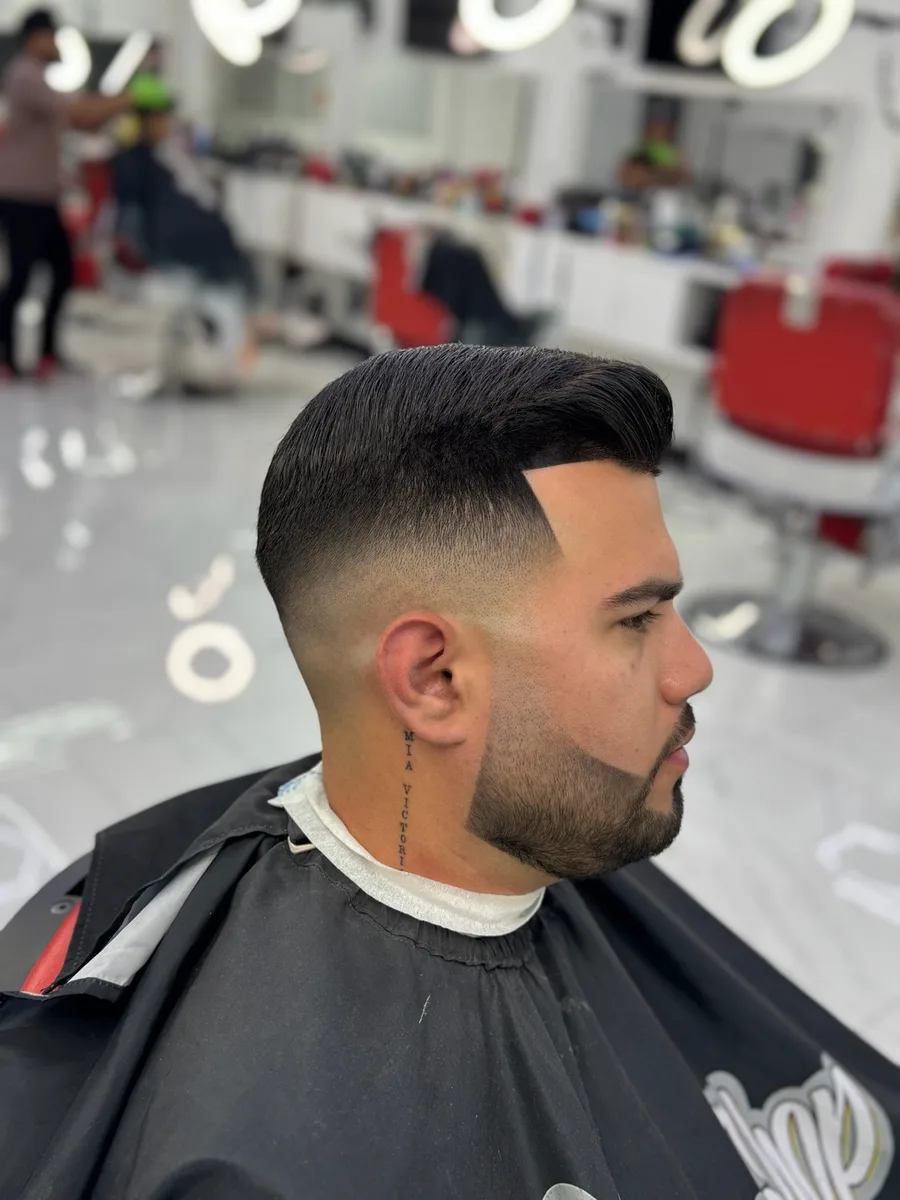
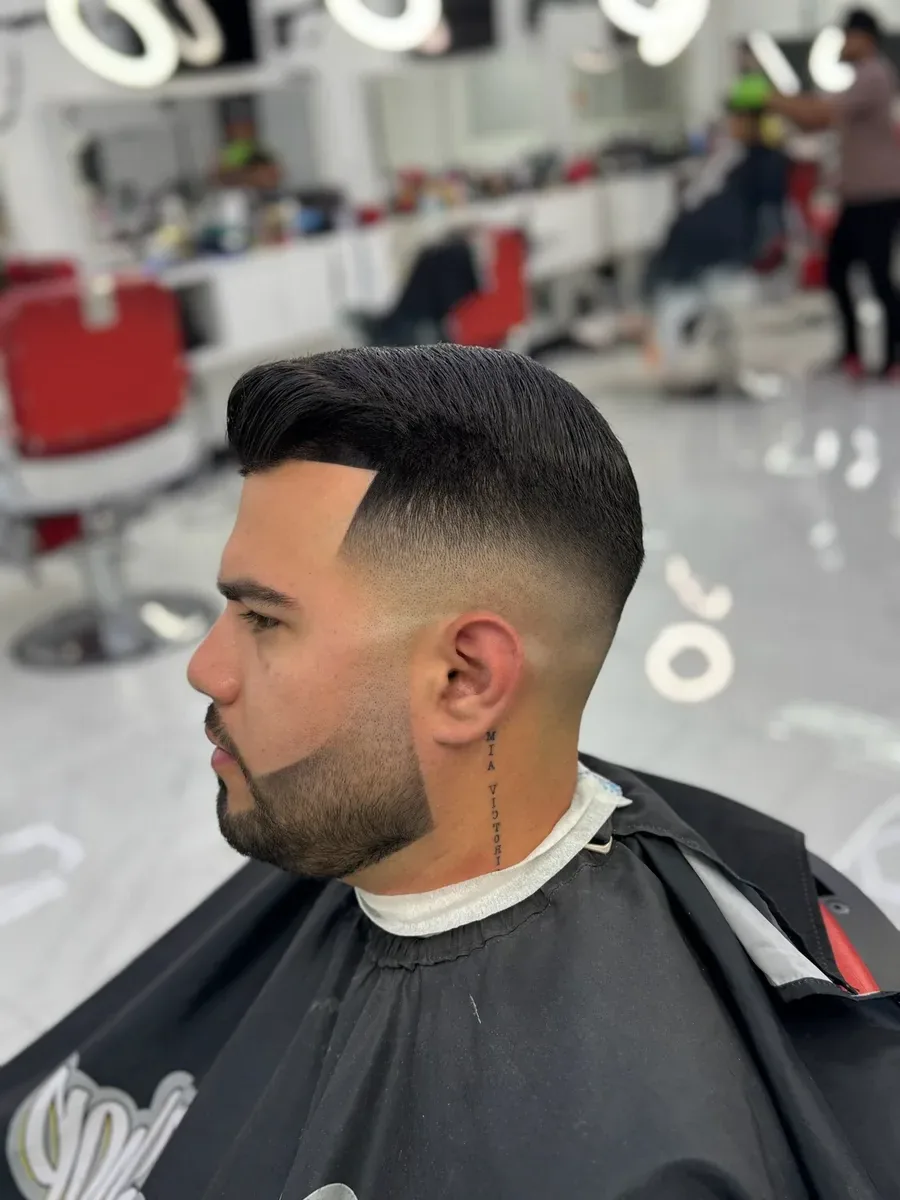
Cushion fix + beard flip + content update (owner-confirmed combined preview 1a18f306)
- Gallery cushion: scroll-padding-inline:16px on the three swipe-row rules (.cards--swipe, .gallery, .post-cards--swipe) so mandatory scroll-snap no longer eats the start padding — first card now rests aligned to the 16px page gutter on every swipe row.
- Beard & Shave photo flipped horizontally (asset-level, all 6 served variants: tile + gallery grid + lightbox -lg, webp+jpg) so the subject faces left like the Cuts photo, consistently in tile, gallery and lightbox.
- Content: Item 10 review-quote swaps with owner-approved verbatim picks (Shop 1: Raul Wallace, Asdrubal Madueño Uzcategui, Jonathan Cantillo; Shop 2: Franche John, Karina Rodriguez, Y J; Services featured: Leyan Martinez) and photo placements — real owner photos replace stock heroes on blog posts 1, 2, 4 (screenshot-cropped), 14, 18; owner's braids photo on post 3; Hot Towel Shave gallery slot filled; kids photo added to the Services gallery (13 items).

diff --git a/src/data/reviews.ts b/src/data/reviews.ts
@@ -1,8 +1,10 @@
 // Structured content — mirrors the Sanity `review` schema (sanity/schemas/review.ts).
-// Quotes are verbatim Google reviews from the content pack — never edited.
-// Shop 2 quotes were written bilingually / in Spanish originally and are kept
-// exactly as written in BOTH locales (per content pack). Shop 1 quotes have a
-// recorded Spanish translation for the /es/ pages.
+// Quotes are verbatim Google reviews — never edited.
+// 2026-11-17 refresh (Item 10, owner-approved picks from the verbatim GBP
+// pull in files/REVIEW-POOL-2026-11-17.md): every quote is kept EXACTLY as
+// written in BOTH locales — no translations. The Shop 1 replacements are
+// Spanish originals and ship as written on the EN and ES pages alike, the
+// same treatment Shop 2 quotes have always had here.
 
 import type { LocalizedString } from './locations';
 import { USE_SANITY, fetchSanity } from '../lib/sanity';
@@ -15,60 +17,60 @@ export interface Review {
 }
 
 const localReviews: Review[] = [
-  // ——— New Barbershop 1 ———
+  // ——— New Barbershop 1 (Spanish originals, kept as written in both locales) ———
   {
-    _id: 'rev-s1-carlos',
+    _id: 'rev-s1-raul',
     location: 'shop1',
-    author: 'Carlos López',
+    author: 'Raul Wallace',
     text: {
-      en: 'Quality and professionalism service with Kenya',
-      es: 'Servicio de calidad y profesionalismo con Kenya',
+      en: 'Lo mejores barberos del planeta están en esta barbería muy humiles y demasiado talentosos',
+      es: 'Lo mejores barberos del planeta están en esta barbería muy humiles y demasiado talentosos',
     },
   },
   {
-    _id: 'rev-s1-sophia',
+    _id: 'rev-s1-asdrubal',
     location: 'shop1',
-    author: 'Sophia Rodriguez',
+    author: 'Asdrubal Madueño Uzcategui',
     text: {
-      en: 'Excellent service with keny barber',
-      es: 'Excelente servicio con el barbero Keny',
+      en: 'Muy buena atención y excelente servicio',
+      es: 'Muy buena atención y excelente servicio',
     },
   },
   {
-    _id: 'rev-s1-zxyuak',
+    _id: 'rev-s1-jonathan',
     location: 'shop1',
-    author: 'zxyuak ?¿',
+    author: 'Jonathan Cantillo',
     text: {
-      en: 'Excellent barbershop and Ale king service',
-      es: 'Excelente barbería y un servicio de rey con Ale',
+      en: 'Excelente trabajo de los barberos',
+      es: 'Excelente trabajo de los barberos',
     },
   },
   // ——— New Barbershop 2 (kept as written in both locales) ———
   {
-    _id: 'rev-s2-juan',
+    _id: 'rev-s2-franche',
     location: 'shop2',
-    author: 'juan velazquez',
+    author: 'Franche John',
     text: {
-      en: 'Me encanta esta barbería! Todo el personal siempre es muy amable, acogedor y profesional. Se nota que se enorgullecen de su trabajo, y los cortes siempre quedan limpios, modernos y con mucho estilo. Charlie es mi barbero, ¡ese es mi pana! Es súper talentoso, presta mucha atención a los detalles y siempre se asegura de que salga de ahí luciendo fresh. Se nota que realmente sabe lo que hace. Definitivamente una de las mejores barberias de la ciudad. Excelente ambiente, excelente gente y excelente servicio. La recomiendo al 100%!',
-      es: 'Me encanta esta barbería! Todo el personal siempre es muy amable, acogedor y profesional. Se nota que se enorgullecen de su trabajo, y los cortes siempre quedan limpios, modernos y con mucho estilo. Charlie es mi barbero, ¡ese es mi pana! Es súper talentoso, presta mucha atención a los detalles y siempre se asegura de que salga de ahí luciendo fresh. Se nota que realmente sabe lo que hace. Definitivamente una de las mejores barberias de la ciudad. Excelente ambiente, excelente gente y excelente servicio. La recomiendo al 100%!',
+      en: 'Great service !! Precise and steady with the clippers! Highly recommended!',
+      es: 'Great service !! Precise and steady with the clippers! Highly recommended!',
     },
   },
   {
-    _id: 'rev-s2-jessica',
+    _id: 'rev-s2-karina',
     location: 'shop2',
-    author: 'JESSICA MERCADO',
+    author: 'Karina Rodriguez',
     text: {
-      en: 'Great Service, Clean Environment, Great Prices. Best Nail Technician. Highly Recommended. Tremendo Servicio, Ambiente Limpio, Buenos Precios. La Mejor Tecnica de Úñas. Altamente Recomendado.',
-      es: 'Great Service, Clean Environment, Great Prices. Best Nail Technician. Highly Recommended. Tremendo Servicio, Ambiente Limpio, Buenos Precios. La Mejor Tecnica de Úñas. Altamente Recomendado.',
+      en: 'The best barbershop in town.... Everything is clean and the barbers have the best customer service and care for you.',
+      es: 'The best barbershop in town.... Everything is clean and the barbers have the best customer service and care for you.',
     },
   },
   {
-    _id: 'rev-s2-jay',
+    _id: 'rev-s2-yj',
     location: 'shop2',
-    author: 'Jay Escargo',
+    author: 'Y J',
     text: {
-      en: 'These guys did an excellent job!! They helped me out immensely!! Charlie and Frankie were amazing, friendly, and very customer focused. I highly recommend them!! Must visit at least once!! Estos muchachos hicieron un trabajo excelente! Me ayudaron muchísimo! Charlie y Frankie fueron increíbles, amables y muy atentos conmigo.',
-      es: 'These guys did an excellent job!! They helped me out immensely!! Charlie and Frankie were amazing, friendly, and very customer focused. I highly recommend them!! Must visit at least once!! Estos muchachos hicieron un trabajo excelente! Me ayudaron muchísimo! Charlie y Frankie fueron increíbles, amables y muy atentos conmigo.',
+      en: 'Exelente servicio & muy buenos con niños 100% recomendado ambiente familiar !',
+      es: 'Exelente servicio & muy buenos con niños 100% recomendado ambiente familiar !',
     },
   },
 ];
@@ -93,10 +95,10 @@ export function reviewsFor(locationId: string): Review[] {
 
 /** Featured testimonial on the Services page (verbatim, 5 stars). */
 const localFeaturedTestimonial = {
-  author: 'Preston Figueroa',
+  author: 'Leyan Martinez',
   text: {
-    en: "Provided great customer service. Very clean shop. Very welcoming. The cut was incredible, very clean, sharp and quick. He used many products. It's hard for my brothers and I to trust just anyone but this guy did the job and did it very well! When in Florida we will be back. We are from Austin, Texas.",
-    es: 'Brindaron un excelente servicio al cliente. La barbería está muy limpia. Muy acogedores. El corte fue increíble, muy limpio, definido y rápido. Usó muchos productos. Para mis hermanos y para mí es difícil confiar en cualquiera, pero él hizo el trabajo y lo hizo muy bien. Cuando estemos en Florida, volveremos. Somos de Austin, Texas.',
+    en: 'Is the number 1 in the world',
+    es: 'Is the number 1 in the world',
   } as LocalizedString,
 };
 

diff --git a/src/data/pages.ts b/src/data/pages.ts
@@ -356,9 +356,10 @@ export const galleryItems: GalleryItem[] = [
     'Finished haircut and beard combo with a crisp line-up, side view, at a barber shop in Orlando, FL', 'Combo de corte y barba terminado con delineado definido, vista de lado, en una barbería en Orlando, FL',
     'Haircut & Beard Combo', 'Combo corte + barba',
     'The full service: cut and beard, finished together in one visit.', 'El servicio completo: corte y barba, terminados juntos en una sola visita.'),
-  cap(null, 'Hot Towel Shave', 'Afeitado con toalla caliente',
+  cap('/images/hot-towel-shave-orlando.webp',
+    "Barber wrapping a hot towel around a reclined client's beard for a traditional shave at a barber shop in Orlando, FL", 'Barbero envolviendo una toalla caliente alrededor de la barba de un cliente reclinado para un afeitado tradicional en una barbería en Orlando, FL',
     'Hot Towel Shave', 'Afeitado con toalla caliente',
-    'Our traditional shave — hot towels, a close finish, total relaxation.', 'Nuestro afeitado tradicional — toallas calientes, un acabado al ras y relajación total.', true),
+    'Our traditional shave — hot towels, a close finish, total relaxation.', 'Nuestro afeitado tradicional — toallas calientes, un acabado al ras y relajación total.'),
   cap('/images/razor-line-up-orlando.webp',
     'Client with a high skin fade and a razor line-up at a barber shop in Orlando, FL', 'Cliente con un degradado alto al ras y un delineado con navaja en una barbería en Orlando, FL',
     'Razor Line-Up', 'Delineado con navaja',
@@ -386,14 +387,18 @@ export const galleryItems: GalleryItem[] = [
   // presence in the services list, category tiles and blog content.
   { src: '/images/barber-with-client-fade-orlando.webp', largeSrc: lgOf('/images/barber-with-client-fade-orlando.webp'), alt: { en: "Barber standing behind a client with a finished skin fade and shaped beard at a barber shop in Orlando, FL", es: 'Barbero de pie detrás de un cliente con un degradado al ras terminado y barba perfilada en una barbería en Orlando, FL' } },
   { src: '/images/barber-braiding-client-hair-orlando.webp', largeSrc: lgOf('/images/barber-braiding-client-hair-orlando.webp'), alt: { en: "Barber working on a client's cornrow braids in the chair at a barber shop in Orlando, FL", es: 'Barbero trabajando en las trenzas cornrow de un cliente en la silla en una barbería en Orlando, FL' } },
+  // 2026-11-17: owner-supplied kids photo, added as a third general item
+  // (the captioned Kids Fade slots already carry other real photos).
+  { src: '/images/kids-textured-crop-orlando.webp', largeSrc: lgOf('/images/kids-textured-crop-orlando.webp'), alt: { en: 'Young client with a textured crop and a temple fade at a barber shop in Orlando, FL', es: 'Cliente joven con corte texturizado y degradado en la sien en una barbería en Orlando, FL' } },
 ];
 
 /* Homepage work gallery (owner addition 2026-11-15): REAL client
    photos only — the captioned haircut set, reusing the Services
    gallery entries by src so captions/alts can never drift apart.
-   No stock items, and no Hot Towel Shave (still no photo exists —
-   no reserved slot on the homepage). haircut-16 takes the Kids Fade
-   slot here (the stronger shot); haircut-15 is new. */
+   No stock items. (The Hot Towel Shave photo, supplied 2026-11-17,
+   lives in the Services gallery only — this homepage set stays as
+   curated.) haircut-16 takes the Kids Fade slot here (the stronger
+   shot); haircut-15 is new. */
 const bySrc = (src: string): GalleryItem => galleryItems.find((i) => i.src === src)!;
 export const homeGalleryItems: GalleryItem[] = [
   bySrc('/images/razor-line-up-orlando.webp'),

diff --git a/src/data/posts.ts b/src/data/posts.ts
@@ -37,8 +37,8 @@ const localPosts: Post[] = [
     slug: 'blog/top-rated-barber-shop-orlando',
     image: '/images/blog-01-top-rated.webp',
     imageAlt: {
-      en: "Barber combing a client's hair",
-      es: 'Barbero peinando el cabello de un cliente',
+      en: 'Client with a slicked pompadour, shaved design line and shaped beard, side view',
+      es: 'Cliente con tupé peinado, línea de diseño afeitada y barba perfilada, vista de lado',
     },
     locales: {
       en: {
@@ -94,8 +94,8 @@ const localPosts: Post[] = [
     slug: 'blog/expert-fades-orlando',
     image: '/images/blog-02-fades.webp',
     imageAlt: {
-      en: "Barber fading a client's hair with clippers",
-      es: 'Barbero haciendo un degradado con máquina a un cliente',
+      en: 'Client with a slicked pompadour, hard part and clean fade, back view',
+      es: 'Cliente con tupé peinado hacia atrás, raya marcada y degradado limpio, vista trasera',
     },
     locales: {
       en: {
@@ -147,12 +147,12 @@ const localPosts: Post[] = [
     _id: 'post-3',
     slug: 'blog/braids-orlando',
     // REAL photo (manifest §5): the Shop 1 side of the shop's own banner —
-    // no braids photo exists in the backup, and a fade photo must never
-    // illustrate this post. Swaps for a real braids photo at the media swap.
+    // 2026-11-17: the owner supplied a real braids photo (cornrows into a
+    // bun) — it replaces the shop-interior graphic that stood in for it.
     image: '/images/blog-03-braids.webp',
     imageAlt: {
-      en: 'Inside New Barbershop 1 and New Barbershop 2 — both Orlando barber shop locations side by side',
-      es: 'Interior de New Barbershop 1 y New Barbershop 2 — ambas barberías de Orlando, una junto a la otra',
+      en: 'Woman with neat cornrow braids pulled back into a bun at a barber shop in Orlando, FL',
+      es: 'Mujer con trenzas cornrow impecables recogidas en un moño en una barbería en Orlando, FL',
     },
     locales: {
       en: {
@@ -203,8 +203,8 @@ const localPosts: Post[] = [
     slug: 'blog/welcome-neighborhood-barbershop-orlando',
     image: '/images/blog-04-welcome.webp',
     imageAlt: {
-      en: "Barber trimming the back of a client's haircut with scissors",
-      es: 'Barbero recortando con tijeras la parte trasera del corte de un cliente',
+      en: 'Client with a side part, skin fade and shaped beard at the barber station',
+      es: 'Cliente con raya lateral, degradado al ras y barba perfilada en la estación del barbero',
     },
     locales: {
       en: {
@@ -743,8 +743,8 @@ const localPosts: Post[] = [
     slug: 'blog/fade-vs-taper',
     image: '/images/blog-14-fade-vs-taper.webp',
     imageAlt: {
-      en: "Barber blending a fade with clippers at the side of a client's head",
-      es: 'Barbero difuminando un degradado con máquina en el lateral de la cabeza de un cliente',
+      en: 'Client with a pompadour and a high skin fade showing the blend, back view',
+      es: 'Cliente con tupé y degradado alto al ras que muestra la difuminación, vista trasera',
     },
     locales: {
       en: {
@@ -957,8 +957,8 @@ const localPosts: Post[] = [
     slug: 'blog/best-hair-product-for-men',
     image: '/images/blog-18-hair-products.webp',
     imageAlt: {
-      en: "Barber cutting a client's hair with scissors and a comb, seen from behind",
-      es: 'Barbero cortando el cabello de un cliente con tijeras y peine, visto desde atrás',
+      en: 'Client with a shaved lightning design and a slicked, glossy styled top',
+      es: 'Cliente con un diseño de rayo afeitado y la parte superior peinada con acabado brillante',
     },
     locales: {
       en: {

diff --git a/src/styles/global.css b/src/styles/global.css
@@ -884,10 +884,21 @@ body { padding-bottom: calc(60px + env(safe-area-inset-bottom)); }
    still aligns with the page gutter. Pure CSS: no JS, works with
    touch, mouse drag-scroll and keyboard scroll alike, and never
    interferes with vertical page scrolling (snap applies to the
-   row's own axis only). */
+   row's own axis only).
+   Cushion fix (2026-11-17): mandatory scroll-snap was eating the
+   16px start padding — the snap target for the first item sat at
+   scrollLeft 16, so every row rested with its first card flush
+   against the screen edge (owner screenshot). scroll-padding-
+   inline: 16px (== the .wrap gutter) shifts every snap target by
+   the gutter: rows now rest at scrollLeft 0 with the first card
+   aligned to the gutter, and every later card settles aligned to
+   the same cushion instead of the edge. The end padding already
+   gave the last card its 16px inset at full scroll; the matching
+   scroll-padding end keeps snap math symmetric. */
 @media (max-width: 899px) {
   .cards--swipe {
     display: flex; overflow-x: auto; scroll-snap-type: x mandatory;
+    scroll-padding-inline: 16px;
     touch-action: pan-x pan-y;
     margin-inline: -16px; padding-inline: 16px; padding-bottom: 10px;
     scrollbar-width: none;
@@ -898,6 +909,7 @@ body { padding-bottom: calc(60px + env(safe-area-inset-bottom)); }
 @media (max-width: 639px) {
   .gallery {
     display: flex; overflow-x: auto; scroll-snap-type: x mandatory;
+    scroll-padding-inline: 16px;
     touch-action: pan-x pan-y;
     margin-inline: -16px; padding-inline: 16px; padding-bottom: 10px;
     scrollbar-width: none;
@@ -906,6 +918,7 @@ body { padding-bottom: calc(60px + env(safe-area-inset-bottom)); }
   .gallery-item { flex: 0 0 68%; scroll-snap-align: start; }
   .post-cards--swipe {
     display: flex; overflow-x: auto; scroll-snap-type: x mandatory;
+    scroll-padding-inline: 16px;
     touch-action: pan-x pan-y;
     margin-inline: -16px; padding-inline: 16px; padding-bottom: 10px;
     scrollbar-width: none;
